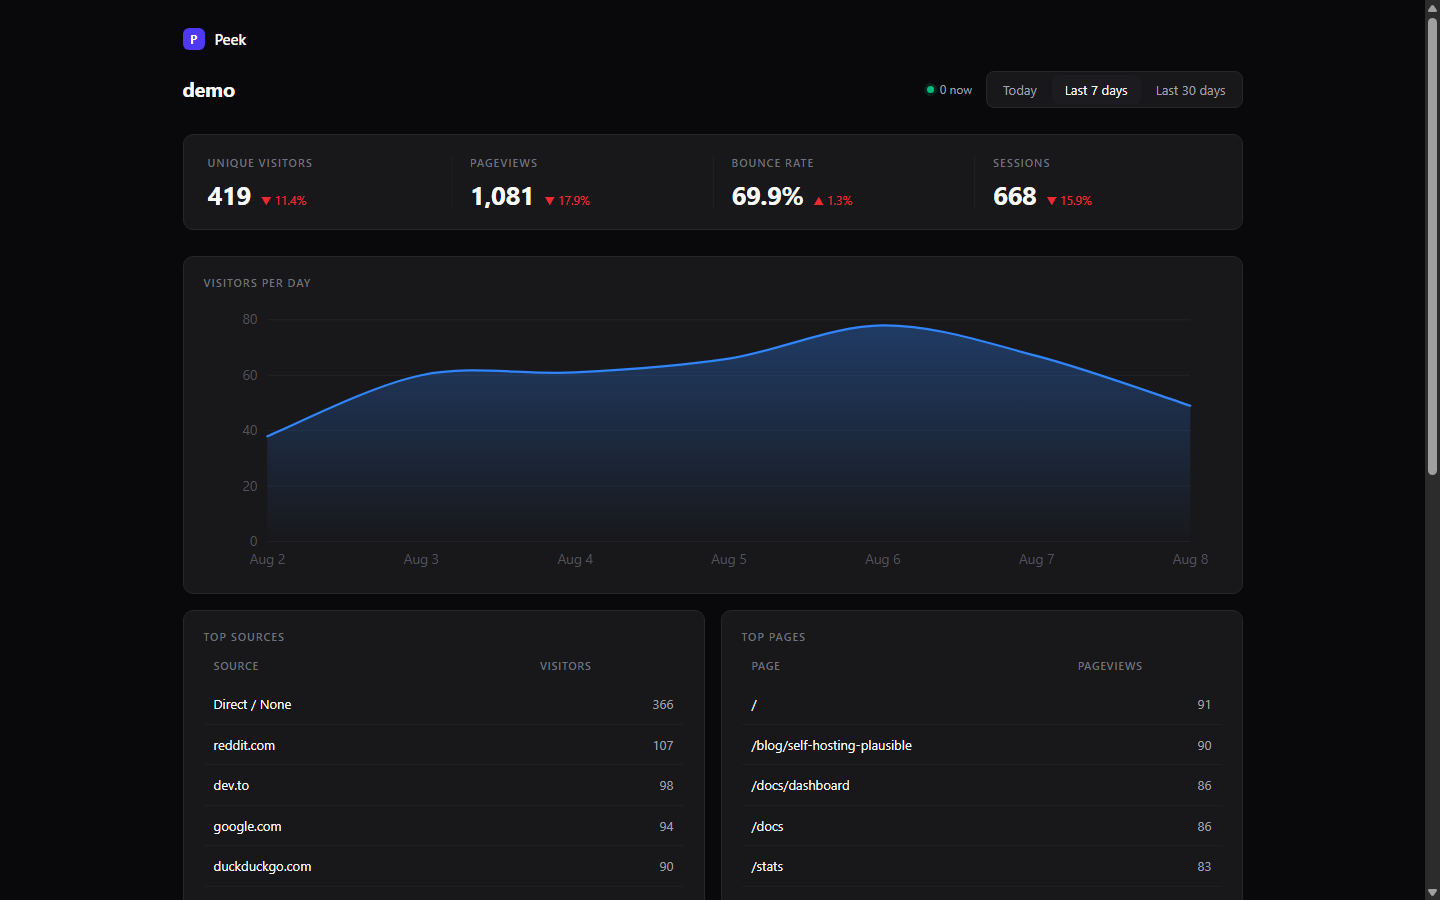
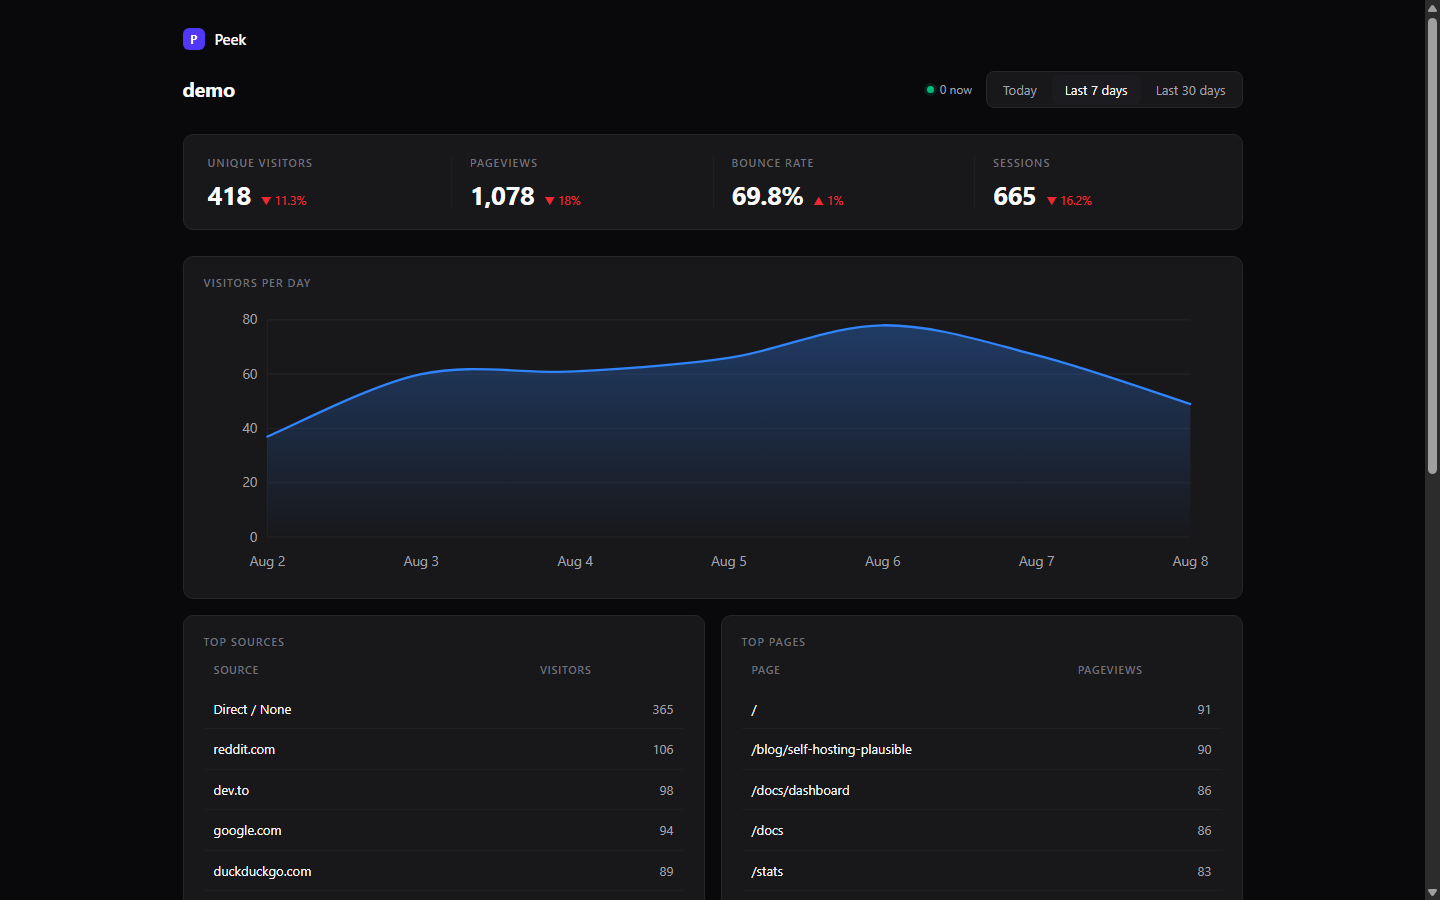
round 4: dual-viewBox chart (readable mobile axis text), label color #52525b -> #a1a1aa, left axis line, padB 38 (0-tick visible)

diff --git a/lib.js b/lib.js
@@ -155,19 +155,30 @@ function fmtDay(d) { // '2026-08-02' -> '2 Aug' (Plausible style, day-first)
 }
 
 // Inline SVG area chart (Plausible-style), zero client JS. mode: 'day' or 'hour'.
-// Text size is set by CSS (.chart text) so it stays 12px real regardless of viewBox scaling.
+// Emits TWO svgs: a 900-wide desktop viewBox and a 400-wide mobile viewBox. SVG text
+// scales with its viewBox, so a single svg would rasterize labels to ~4px on mobile;
+// the mobile variant keeps them ~10px real. CSS shows one per media query.
+// Label color #a1a1aa (zinc-400) for contrast on the #18181b panel.
 function chartSVG(points, mode) {
-  const W = 900, H = 240, padL = 56, padR = 28, padT = 14, padB = 30;
+  const opts = [
+    { w: 900, h: 244, padL: 56, padR: 28, padT: 14, padB: 38, cls: 'chart-d', gid: 'fill', nX: 6 },
+    { w: 400, h: 220, padL: 44, padR: 14, padT: 12, padB: 32, cls: 'chart-m', gid: 'fillm', nX: 4 }
+  ];
+  return opts.map(o => buildChart(points, mode, o)).join('');
+}
+
+function buildChart(points, mode, { w, h, padL, padR, padT, padB, cls, gid, nX }) {
   const rawMax = Math.max(1, ...points.map(p => p.uv));
   const step = niceStep(rawMax / 4);            // 4 divisions, clean numbers
   const max = Math.ceil(rawMax / step) * step;  // e.g. 79 -> step 20 -> max 80
-  const iw = W - padL - padR, ih = H - padT - padB;
+  const iw = w - padL - padR, ih = h - padT - padB;
   const X = i => padL + (points.length === 1 ? iw / 2 : (i / (points.length - 1)) * iw);
   const Y = v => padT + ih - (v / max) * ih;
   let out = '';
+  out += `<line x1="${padL}" y1="${padT}" x2="${padL}" y2="${padT + ih}" stroke="#222228" stroke-width="1"/>`;
   for (let g = 0; g <= 4; g++) {
     const v = (max / 4) * g, y = Y(v);
-    out += `<line x1="${padL}" y1="${y}" x2="${W - padR}" y2="${y}" stroke="#222228" stroke-width="1"/>`;
+    out += `<line x1="${padL}" y1="${y}" x2="${w - padR}" y2="${y}" stroke="#222228" stroke-width="1"/>`;
     out += `<text x="${padL - 9}" y="${y + 4}" text-anchor="end">${fmt(v)}</text>`;
   }
   const pts = points.map((p, i) => [X(i), Y(p.uv)]);
@@ -179,20 +190,20 @@ function chartSVG(points, mode) {
     d += ` C ${c1x} ${c1y}, ${c2x} ${c2y}, ${p2[0]} ${p2[1]}`;
   }
   const area = `${d} L ${pts[pts.length - 1][0]} ${padT + ih} L ${pts[0][0]} ${padT + ih} Z`;
-  out += '<defs><linearGradient id="fill" x1="0" y1="0" x2="0" y2="1"><stop offset="0" stop-color="#3085fe" stop-opacity="0.32"/><stop offset="1" stop-color="#3085fe" stop-opacity="0"/></linearGradient></defs>';
-  out += `<path d="${area}" fill="url(#fill)"/>`;
+  out += `<defs><linearGradient id="${gid}" x1="0" y1="0" x2="0" y2="1"><stop offset="0" stop-color="#3085fe" stop-opacity="0.32"/><stop offset="1" stop-color="#3085fe" stop-opacity="0"/></linearGradient></defs>`;
+  out += `<path d="${area}" fill="url(#${gid})"/>`;
   out += `<path d="${d}" fill="none" stroke="#3085fe" stroke-width="2" stroke-linejoin="round" stroke-linecap="round"/>`;
   points.forEach((p, i) => {
     const label = mode === 'hour' ? `${String(p.h).padStart(2, '0')}:00` : p.day;
     out += `<circle cx="${X(i)}" cy="${Y(p.uv)}" r="3" fill="transparent"><title>${label} - ${fmt(p.uv)} visitors</title></circle>`;
   });
-  const stepX = Math.max(1, Math.floor(points.length / 6));
+  const stepX = Math.max(1, Math.floor(points.length / nX));
   for (let i = 0; i < points.length; i += stepX) {
     const p = points[i];
     const label = mode === 'hour' ? `${String(p.h).padStart(2, '0')}h` : fmtDay(p.day);
-    out += `<text x="${X(i)}" y="${H - 10}" text-anchor="middle">${label}</text>`;
+    out += `<text x="${X(i)}" y="${h - 12}" text-anchor="middle">${label}</text>`;
   }
-  return `<svg class="chart" viewBox="0 0 ${W} ${H}" role="img" aria-label="Visitors per ${mode}">${out}</svg>`;
+  return `<svg class="chart ${cls}" viewBox="0 0 ${w} ${h}" role="img" aria-label="Visitors per ${mode}">${out}</svg>`;
 }
 
 module.exports = { db, SESSION_IDLE_MS, dayKey, visitorHash, isBot, record, insertRow, rangeStats, topPages, topRefs, topCountries, topScr, perDay, perHour, chartSVG, currentVisitors, fmt };

diff --git a/views/dashboard.html b/views/dashboard.html
@@ -42,9 +42,11 @@ td:last-child{text-align:right;font-variant-numeric:tabular-nums;color:var(--mut
 tr:last-child td{border-bottom:none}
 .empty{color:var(--dim);font-size:13px;padding:10px 2px}
 .chart{width:100%;height:auto;display:block}
-.chart text{font-size:12px;fill:#52525b}
-.chart line{vector-effect:non-scaling-stroke}
+.chart text{font-size:12px;fill:#a1a1aa}
+.chart-m{display:none}
 @media (max-width:760px){
+  .chart-d{display:none}
+  .chart-m{display:block}
   .wrap{padding:20px 14px 48px}
   .sitebar{flex-direction:column;align-items:flex-start;gap:14px}
   .kpis{grid-template-columns:repeat(2,1fr);padding:14px 4px}
